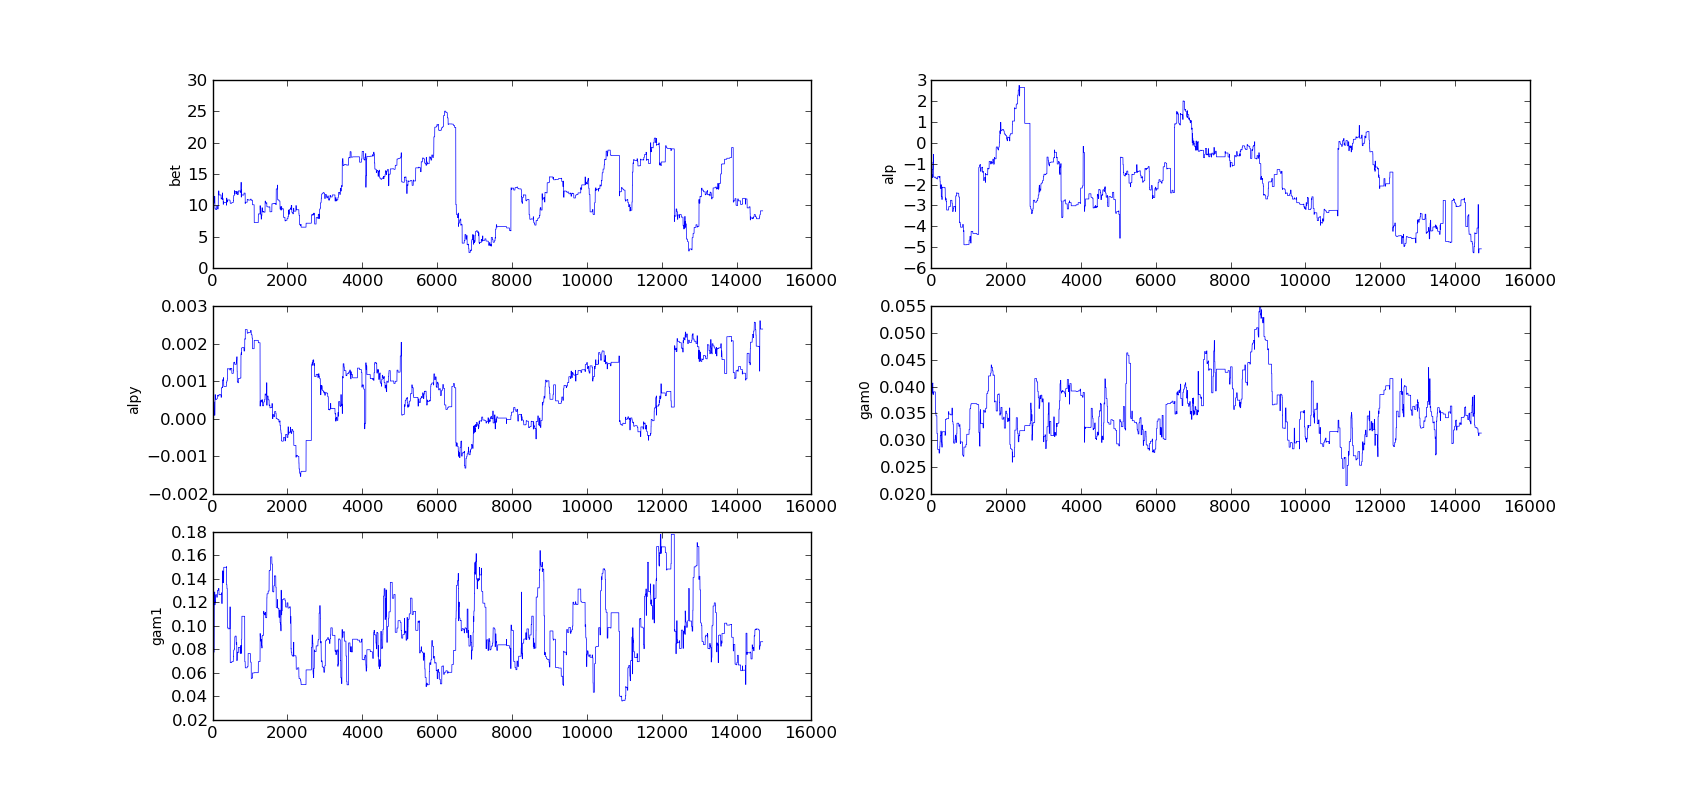
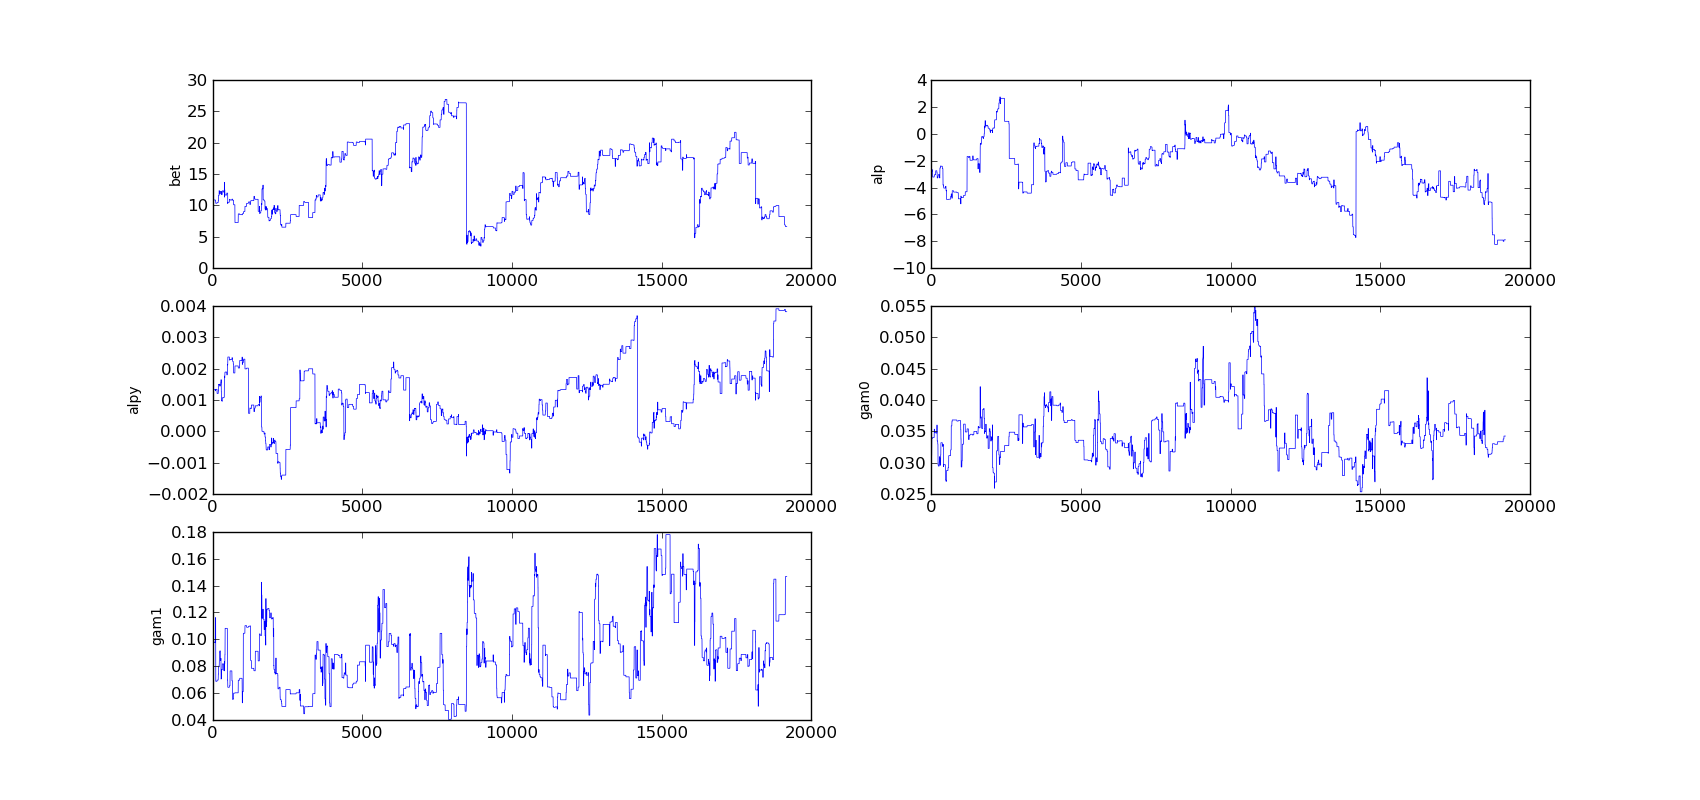
fixed move probabilities

diff --git a/val_defs.py b/val_defs.py
@@ -75,13 +75,13 @@ def val_loop_inner(current, w, dp, lam, dis, p):
             print dif
     return new
 
-def calc_trans(current, w, lam, dis, p):
+def calc_trans(current, w, dp, lam, dis, p):
     dat = pd.DataFrame({'v1': current, 'w1': w})
     min_stat = dat.apply(lambda row: mins(row, dat, p), axis=1)
-    trans = min_stat * lam / len(current)
+    trans = min_stat * lam
     cols = trans.columns
     ind  = trans.index
-    trans_mat = trans.as_matrix();
+    trans_mat = trans.as_matrix() * dp
     np.fill_diagonal(trans_mat,0)
     np.fill_diagonal(trans_mat,1 - trans_mat.sum(1))
     trans = pd.DataFrame(trans_mat,index=ind,columns=cols)
@@ -100,7 +100,7 @@ def val_loop(w, dp, lam, dis, p, ip, bd, init='nope'):
     new = val_loop_inner(current, w, dp, lam, dis, p)
 
     # GET TRANSITIONS
-    trans = calc_trans(new, w, lam, dis, p)
+    trans = calc_trans(new, w, dp, lam, dis, p)
     # instrument transisitons
     insw = pd.DataFrame({'w': w.sort_index(),
                         'bd': bd.sort_index()},
@@ -108,7 +108,7 @@ def val_loop(w, dp, lam, dis, p, ip, bd, init='nope'):
     insw = insw.apply(lambda x: x['w'] *
                       math.exp(- ip * x['bd']), axis=1)
     insw['OTHER'] = w['OTHER']
-    ins_trans = calc_trans(new, insw, lam, dis, p) 
+    ins_trans = calc_trans(new, insw, dp, lam, dis, p) 
 
     return new, trans, ins_trans
 

diff --git a/from_ham/make_plots.py b/from_ham/make_plots.py
@@ -29,22 +29,21 @@ mkplt(p['alp'],  3, 2, 2, 'alp', 0)
 mkplt(p[' alpy'],  3, 2, 3, 'alpy', 0)
 mkplt(p[' gam0'], 3, 2, 4, 'gam0', 0)
 mkplt(p[' gam1'], 3, 2, 5, 'gam1', 0)
-plt.savefig('params1_plots_lat.png', bbox_inches=0)
+plt.savefig('params1_plots_lat2.png', bbox_inches=0)
 
 fig2 = plt.figure(figsize=(17,  8),  dpi=80)
 mkplt(p[' field_co'],     3, 3, 1, 'field_co'  , 0)
 mkplt(p[' qual_co'],      3, 3, 2, 'qual_co'   , 0)
 mkplt(p[' lat_co'],       3, 3, 3, 'lat_co'    , 0)
-mkplt(p[' lo1'],          3, 3, 4, 'lo1'       , 0)
-mkplt(p[' lo2'],          3, 3, 5, 'lo2'       , 0)
+mkplt(p[' lo'],          3, 3, 4, 'lo1'       , 0)
 mkplt(p[' p'],            3, 3, 6, 'p'         , 0)
 mkplt(p[' ip'],           3, 3, 8, 'ip'        , 0)
-plt.savefig('params2_plots_lat.png', bbox_inches=0)
+plt.savefig('params2_plots_lat2.png', bbox_inches=0)
 
 fig3 = plt.figure(figsize=(17, 8), dpi=80)
 mkplt(p[' lat_prob1'][::8],    3, 1, 1, 'lat_prob1' , 0)
 mkplt(p[' lat_prob2'][::8],    3, 1, 2, 'lat_prob2' , 0)
 mkplt(p[' lat_prob3'][::8],    3, 1, 3, 'lat_prob3' , 0)
-plt.savefig('params3_plots_lat.png', bbox_inches=0)
+plt.savefig('params3_plots_lat2.png', bbox_inches=0)
 
 plt.show()

diff --git a/discrete.py b/discrete.py
@@ -49,8 +49,6 @@ def main(cit_params, big_mov_params, lp, ip):
                                       mov_dat_not91, mov_dat91)
     vd.reset(init, trans, itrans, mlik)
 
-    import pdb; pdb.set_trace()
-
     cit_liks, fc_liks, nocit_liks\
             = cm.call_parallel(cit_params, dep_year,
                                lp, citers, first_cits, nocits)
